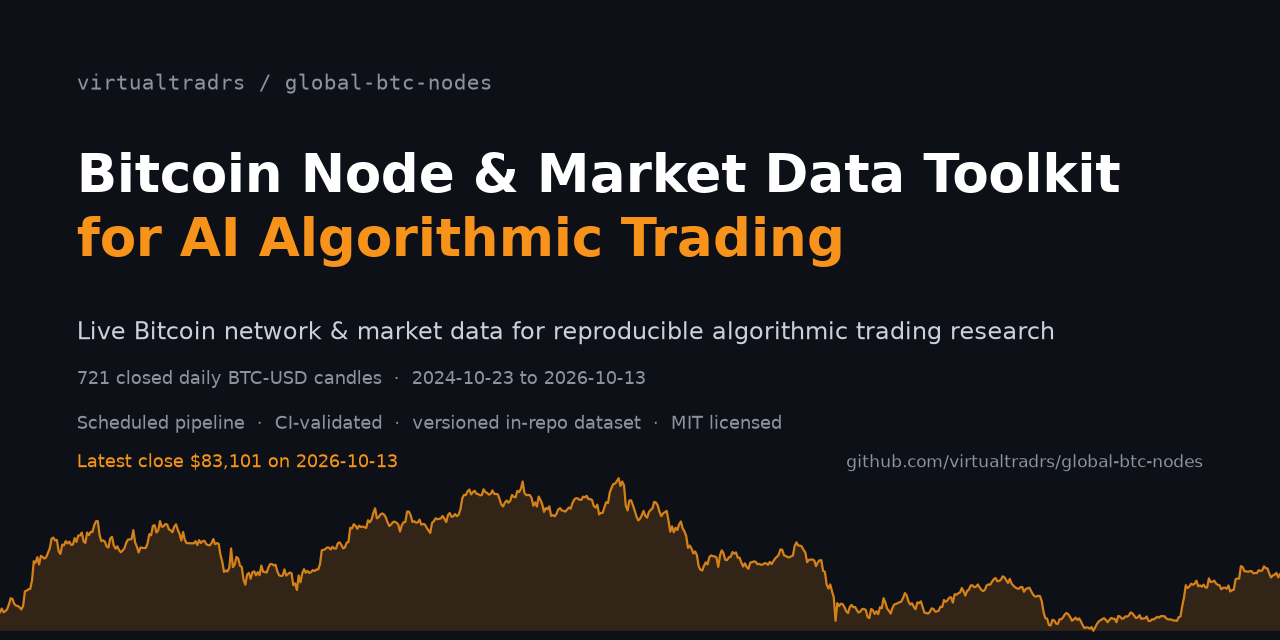
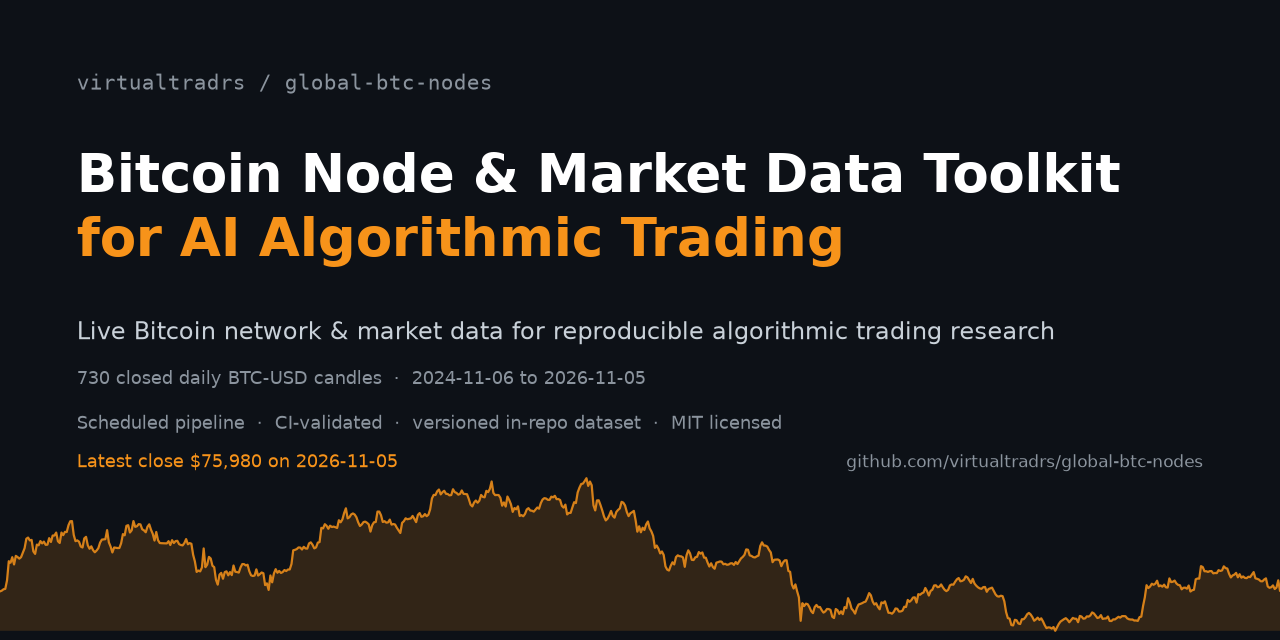
docs(readme): refresh every figure to the committed dataset
The dataset moved on (730 candles, 2024-11-06 -> 2026-11-05; 11 node
snapshots, 2026-10-13 -> 2026-11-06) while the README still quoted the
721-candle / 2026-10-13 window. Every number below was recomputed from
data/btc_market_daily.csv, data/btc_node_metrics.json and
results/baseline_results.json, not copied from the old text.

README:
- dataset bullet: 721 candles (2024-10-23 -> 2026-10-13) -> 730 candles
  (2024-11-06 -> 2026-11-05) plus 11 snapshots (2026-10-13 -> 2026-11-06),
  and say that --max-days 730 is what rolls the window forward.
- Showcase: new candle count/range, highest/lowest close (now named as
  closes, not as the intraday high/low columns), latest close
  83,101.20 -> 75,979.90, and the node panel narrative replaced (11
  snapshots, latest tip 974,852 / 15.4 MB / 20,676 nodes) including the
  two snapshots with no bitnodes census and the 2026-10-22 -> 2026-11-06
  gap.
- Baseline: table and prose re-read from results/baseline_results.json
  (-12.46% vs -21.49%, window 2025-02-13 -> 2026-11-05, 631 trading days,
  +9.03 pp); max drawdown and win rate were already correct.
- Pipeline section: example commit message is now a real one.

docs/assets/make_assets.py: the generator crashed on the current data
because two snapshots legitimately carry no node_network block (bitnodes
unreachable). It now plots a gap instead of a KeyError or an interpolated
census, labels only the first and last census, uses a date-aware tick
[…]

diff --git a/docs/assets/make_assets.py b/docs/assets/make_assets.py
@@ -153,7 +153,13 @@ def make_showcase(candles: list[tuple[datetime, float, float]], snaps: list[dict
     hi = max(candles, key=lambda c: c[1])
     lo = min(candles, key=lambda c: c[1])
     last = candles[-1]
-    for point, label, va in ((hi, f"high {usd(hi[1])}  {hi[0]:%Y-%m-%d}", "bottom"), (lo, f"low {usd(lo[1])}  {lo[0]:%Y-%m-%d}", "top")):
+    # Panel 1 plots closes, so these are the highest and lowest *close* of the
+    # window, labelled as such: the intraday high/low columns hold different
+    # (also real) numbers and the README must not be read as quoting them.
+    for point, label, va in (
+        (hi, f"highest close ${hi[1]:,.2f}  {hi[0]:%Y-%m-%d}", "bottom"),
+        (lo, f"lowest close ${lo[1]:,.2f}  {lo[0]:%Y-%m-%d}", "top"),
+    ):
         ax1.scatter([point[0]], [point[1]], s=22, color="#ffffff", zorder=5)
         ax1.annotate(
             label,
@@ -166,13 +172,14 @@ def make_showcase(candles: list[tuple[datetime, float, float]], snaps: list[dict
         )
     ax1.scatter([last[0]], [last[1]], s=26, color=BLUE, zorder=5)
     ax1.annotate(
-        f"latest {usd(last[1])}  {last[0]:%Y-%m-%d}",
+        f"latest close ${last[1]:,.2f}  {last[0]:%Y-%m-%d}",
         xy=(last[0], last[1]),
-        xytext=(-10, 14),
+        xytext=(-8, -22),
         textcoords="offset points",
         color=BLUE,
         fontsize=10,
         ha="right",
+        va="top",
     )
     ax1.set_ylim(min(closes) * 0.9, max(closes) * 1.09)
     ax1.set_xlim(dates[0], dates[-1])
@@ -192,26 +199,56 @@ def make_showcase(candles: list[tuple[datetime, float, float]], snaps: list[dict
     style(ax2)
     sdates = [datetime.strptime(s["date"], "%Y-%m-%d") for s in snaps]
     mempool = [s["chain"]["mempool_size_mb"] for s in snaps]
-    reach = [s["node_network"]["reachable_nodes"] for s in snaps]
+    # The pipeline degrades honestly: when bitnodes.io cannot be reached the
+    # snapshot is still written, simply without a `node_network` block. Plot the
+    # census points that exist (a gap in the line, never an interpolated node
+    # count) and say on how many snapshots the census was actually measured.
+    reach = [
+        s["node_network"]["reachable_nodes"] if s.get("node_network") else float("nan")
+        for s in snaps
+    ]
+    measured = [value for value in reach if value == value]  # NaN-safe
     ax2.bar(sdates, mempool, width=0.18, color=ORANGE, alpha=0.55, label="mempool size (MB)")
     ax2.set_ylim(0, max(mempool) * 1.6)
     ax2.set_xlim(mdates.date2num(sdates[0]) - 0.5, mdates.date2num(sdates[-1]) + 0.5)
     ax2.set_ylabel("mempool MB", color=MUTED, fontsize=9)
-    ax2.xaxis.set_major_locator(mdates.DayLocator(interval=1))
-    ax2.xaxis.set_major_formatter(mdates.DateFormatter("%Y-%m-%d"))
+    ax2.xaxis.set_major_locator(mdates.AutoDateLocator(minticks=4, maxticks=8))
+    ax2.xaxis.set_major_formatter(mdates.DateFormatter("%m-%d"))
+    census_note = (
+        f"node census measured on {len(measured)} of {len(snaps)} snapshots"
+        if len(measured) != len(snaps)
+        else "node census on every snapshot"
+    )
     ax2.set_title(
-        "Bitcoin network telemetry (data/btc_node_metrics.json) — snapshots currently retained in the dataset: "
-        + ", ".join(f"{s['date']} ({s['chain']['tip_height']:,})" for s in snaps),
+        f"Bitcoin network telemetry (data/btc_node_metrics.json) — {len(snaps)} snapshots, "
+        f"{snaps[0]['date']} to {snaps[-1]['date']}\n"
+        f"chain tip {snaps[0]['chain']['tip_height']:,} → {snaps[-1]['chain']['tip_height']:,}  ·  {census_note}",
         color=FG,
         fontsize=10.5,
         loc="left",
     )
     ax2b = ax2.twinx()
-    ax2b.plot(sdates, reach, color=BLUE, marker="o", linewidth=1.8, label="reachable nodes")
-    ax2b.set_ylim(min(reach) * 0.95, max(reach) * 1.05)
+    if measured:
+        ax2b.plot(sdates, reach, color=BLUE, marker="o", linewidth=1.8, label="reachable nodes")
+        ax2b.set_ylim(min(measured) * 0.95, max(measured) * 1.05)
     ax2b.tick_params(colors=MUTED, labelsize=9)
-    for value, x in zip(reach, sdates):
-        ax2b.annotate(f"{value:,} nodes", xy=(x, value), xytext=(0, 8), textcoords="offset points", color=BLUE, fontsize=9, ha="center")
+    # Label the first and last census only: eleven per-day labels on a three-week
+    # axis collide into an unreadable smear, and every value is in the JSON.
+    measured_points = [(x, value) for x, value in zip(sdates, reach) if value == value]
+    if measured_points:
+        for (x, value), alignment, offset in (
+            (measured_points[0], "left", (4, 8)),
+            (measured_points[-1], "right", (-4, 8)),
+        ):
+            ax2b.annotate(
+                f"{value:,} nodes",
+                xy=(x, value),
+                xytext=offset,
+                textcoords="offset points",
+                color=BLUE,
+                fontsize=9,
+                ha=alignment,
+            )
     for label in ax2b.get_yticklabels():
         label.set_color(BLUE)
 

diff --git a/README.md b/README.md
@@ -4,7 +4,7 @@
 
 ### Why star this repo
 
-- **Live daily pipeline, real versioned data.** A scheduled GitHub Actions job fetches *Bitcoin network telemetry* and *BTC-USD market data* every day, validates it, and commits only what changed — no heartbeat commits, no hand-written rows. The committed dataset currently holds **721 closed daily candles (2024-10-23 → 2026-10-13)** plus the latest node/mempool snapshots.
+- **Live daily pipeline, real versioned data.** A scheduled GitHub Actions job fetches *Bitcoin network telemetry* and *BTC-USD market data* every day, validates it, and commits only what changed — no heartbeat commits, no hand-written rows. The committed dataset currently holds **730 closed daily candles (2024-11-06 → 2026-11-05)** plus **11 node/mempool snapshots (2026-10-13 → 2026-11-06)**; both files keep the most recent 730 entries (`--max-days`), so the window rolls forward as new data lands.
 - **Bitcoin data most repositories don't have.** Mempool congestion, recommended fees, chain-tip height and the `bitnodes.io` reachable-node census, joined to daily OHLCV on UTC date — network state, not another copy of the price.
 - **Reproducible quantitative finance, not a notebook screenshot.** The data is byte-addressable in git, so a result is reproducible against the exact dataset revision it was computed from. Clone it and you have the same inputs, the same seeds and the same code path as everyone else.
 - **CI-verified on every push.** `scripts/check_repo.py` runs in `.github/workflows/ci.yml` and fails the build if the community files, CI wiring, README structure or dataset schema drift.
@@ -95,7 +95,7 @@ A GitHub Actions workflow (`.github/workflows/auto-update.yml`) runs once a day,
    - `bitnodes.io` `/api/v1/snapshots/latest/` — the census of reachable Bitcoin **nodes**, which is the "Bitcoin Nodes" half of the project
 2. **Pulls market data** — daily BTC-USD OHLCV candles — from Kraken's public OHLC endpoint, falling back to Coinbase Exchange if Kraken is unavailable, and appends only the days that have closed to `data/btc_market_daily.csv`. The in-progress UTC day is deliberately not written: an unfinished candle is not a daily bar.
 3. **Validates before writing**, so bad data can never reach a tracked file: required fields present, no nulls in numeric fields, timestamps strictly increasing and unique, every value inside a declared sane range, and the chain tip cross-checked against the node-census height. Validation failure exits non-zero and *no tracked file is modified* — a red run leaves the last good dataset exactly as it was. Files are written atomically and never empty or partial.
-4. **Commits the updated dataset** with a message naming what actually changed, e.g. `data: btc node + market snapshot 2026-10-13 (height 971311, mempool 37.9 MB, no new candles)`. If the files are byte-identical to what is already committed, the workflow commits nothing at all.
+4. **Commits the updated dataset** with a message naming what actually changed, e.g. `data: btc node + market snapshot 2026-10-22 (height 972602, mempool 25.6 MB, +1 candle)`. If the files are byte-identical to what is already committed, the workflow commits nothing at all.
 
 **We do not run a Bitcoin Core node, and this repository never speaks JSON-RPC to one.** Every number above comes from the named public APIs. When a source is unavailable the run degrades honestly instead of inventing a value: if `bitnodes.io` cannot be reached, the chain and market data are still recorded, the snapshot simply carries no `node_network` block, and both the validation and the commit message say so.
 
@@ -127,10 +127,10 @@ A long-only SMA crossover (fast 20 / slow 100, flat otherwise) against buy-and-h
 
 | Strategy | Total return | CAGR | Max drawdown | Trades (fills) | Win rate | Time in market | Final equity |
 | --- | --- | --- | --- | --- | --- | --- | --- |
-| SMA 20/100 crossover | -8.87% | -5.32% | 33.72% | 9 | 40.00% | 43.89% | $9,112.67 |
-| Buy & hold | -20.79% | -12.81% | 53.09% | 1 | 0.00% | 100.00% | $7,921.38 |
+| SMA 20/100 crossover | -12.46% | -7.42% | 33.72% | 9 | 40.00% | 44.69% | $8,754.23 |
+| Buy & hold | -21.49% | -13.09% | 53.09% | 1 | 0.00% | 100.00% | $7,851.34 |
 
-Over the 622 trading days from **2025-01-30 to 2026-10-13** (721 committed candles, the first 99 rows used only to warm the moving averages and excluded from the returns), the crossover finished **+11.92 percentage points** ahead of buy-and-hold after costs — inside a period where BTC-USD itself lost 20.79%. Read it plainly: both strategies lost money, and the honest summary is that this rule lost less than holding, not that it works.
+Over the 631 trading days from **2025-02-13 to 2026-11-05** (730 committed candles, the first 99 rows used only to warm the moving averages and excluded from the returns), the crossover finished **+9.03 percentage points** ahead of buy-and-hold after costs — inside a period where BTC-USD itself lost 21.49%. Read it plainly: both strategies lost money, and the honest summary is that this rule lost less than holding, not that it works.
 
 Reproduce it from a clean clone — no network, no notebook, standard library only:
 
@@ -142,7 +142,7 @@ python scripts/run_baseline.py --check   # re-derives the metrics and diffs them
 - **No look-ahead:** the signal is computed from closes up to and including day `t`, and the resulting position only applies from day `t+1` (filled at that close), so no day's return is earned using a price that was not yet observable.
 - **Costs:** 0.10% fee + 0.05% slippage per side are charged on the executed notional of every fill — entry and exit both pay them. The windows, the costs and the starting capital are a config block at the top of the script and are echoed into the output file.
 - **Deterministic:** no RNG, no clock, no network (`"randomness": "none (deterministic)"`, `"seed": null`); the dataset is the only input, so a clean clone re-derives identical numbers — which is exactly what the `--check` step in CI verifies.
-- **Price-only, on purpose:** the experiment reads `data/btc_market_daily.csv` only. `data/btc_node_metrics.json` holds a couple of daily snapshots, far too few to backtest a node-derived signal, and nothing here claims otherwise.
+- **Price-only, on purpose:** the experiment reads `data/btc_market_daily.csv` only. `data/btc_node_metrics.json` holds 11 daily snapshots — still far too few to backtest a node-derived signal, and nothing here claims otherwise.
 
 Full output, assumptions, per-strategy diagnostics and the rounding rule: [`results/baseline_results.json`](results/baseline_results.json) — see [`results/README.md`](results/README.md).
 
@@ -169,7 +169,7 @@ Baselines and evaluation come before modelling on purpose: a crossover that ties
 
 ![BTC-USD daily close history from the versioned dataset, with the Bitcoin node and mempool snapshots the pipeline retains](docs/assets/showcase.png)
 
-Both panels are drawn directly from the files in `data/` — nothing here is a mock-up or a placeholder. The upper panel is every closed daily candle in `data/btc_market_daily.csv`: **721 candles from 2024-10-23 to 2026-10-13**, a high of **$124,766.50 (2025-10-06)**, a low of **$58,531.90 (2026-06-30)** and a latest close of **$83,101.20 (2026-10-13)**. The lower panel plots the Bitcoin network telemetry in `data/btc_node_metrics.json` — the snapshots currently retained are 2026-10-13 (chain tip 971,311, mempool 37.9 MB, 26,142 reachable nodes) and 2026-10-14 (tip 971,386, mempool 39.9 MB, 25,665 reachable nodes), because the pipeline keeps a rolling window and the file was initialised recently, so that panel will fill in day by day.
+Both panels are drawn directly from the files in `data/` — nothing here is a mock-up or a placeholder. The upper panel is every closed daily candle in `data/btc_market_daily.csv`: **730 candles from 2024-11-06 to 2026-11-05**, a highest close of **$124,766.50 (2025-10-06)**, a lowest close of **$58,531.90 (2026-06-30)** and a latest close of **$75,979.90 (2026-11-05)**. The lower panel plots the Bitcoin network telemetry in `data/btc_node_metrics.json`: **11 snapshots from 2026-10-13 to 2026-11-06**, the latest recording chain tip **974,852**, a **15.4 MB** mempool and **20,676** reachable nodes, against 26,142 in the first snapshot. That panel is not gap-free, and it is drawn that way on purpose: two of the eleven snapshots (2026-10-19 and 2026-10-22) carry chain and mempool data only, because `bitnodes.io` could not be reached on those runs, and no snapshot was committed between 2026-10-22 and 2026-11-06 — so the node line is drawn only where a census was actually measured, never interpolated across a gap.
 
 Regenerate both images yourself from the current dataset:
 
